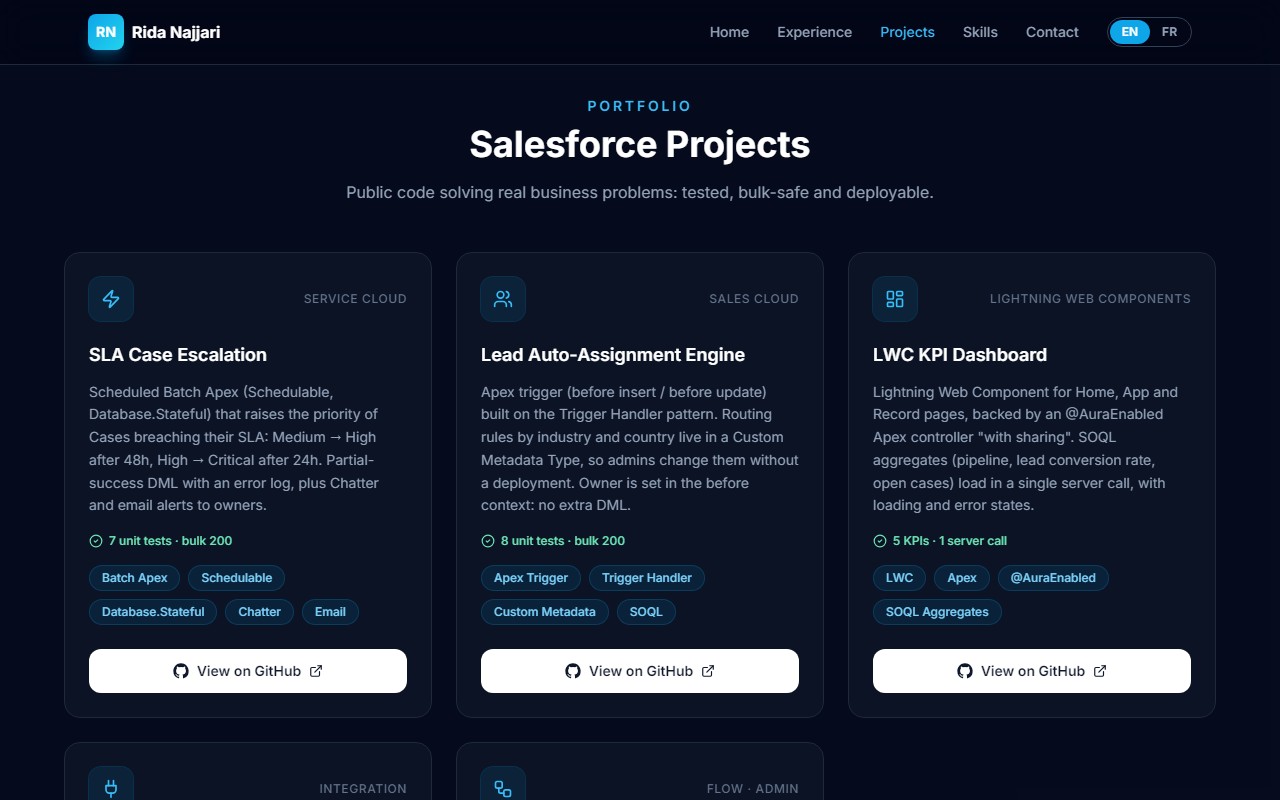
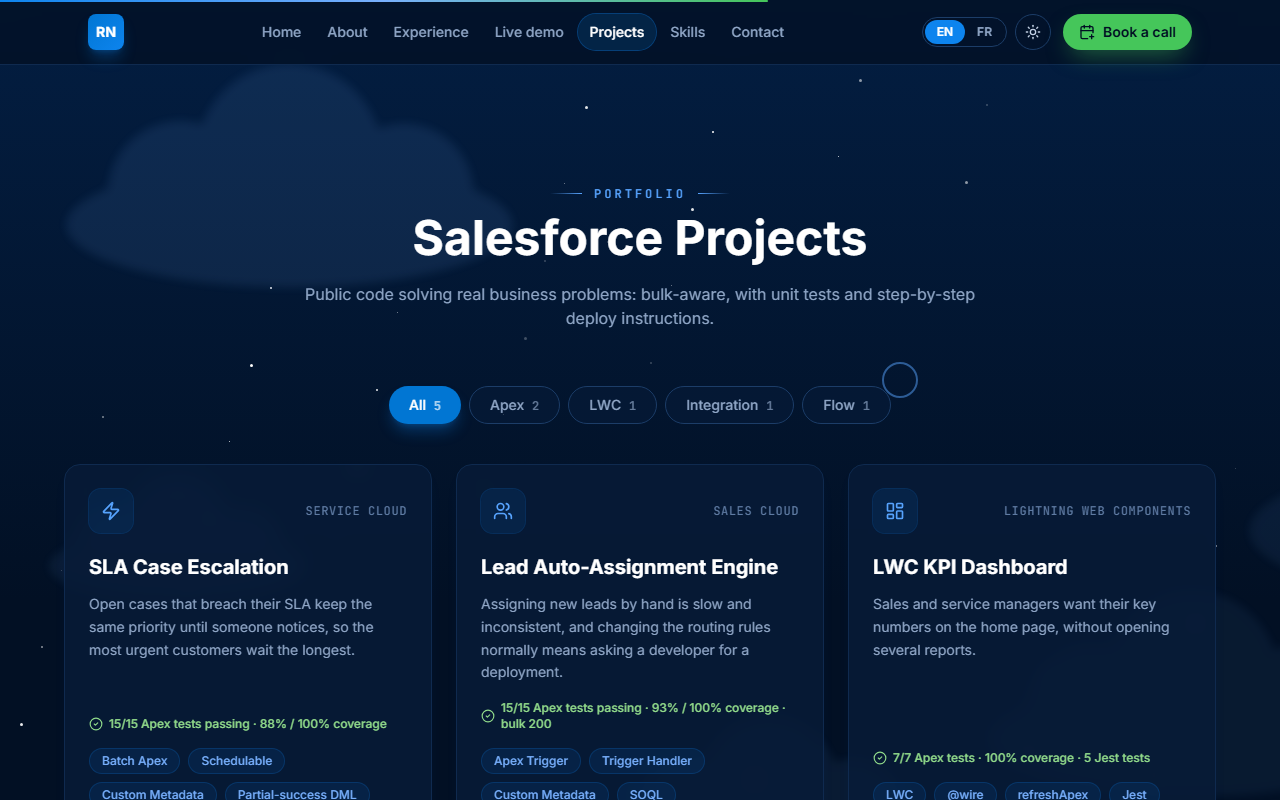
Update README and screenshots for the redesigned site

diff --git a/README.md b/README.md
@@ -10,11 +10,16 @@ This repo is the code of my personal website. I wanted one place where a recruit
 
 ## What's on the site
 
-- A short intro, my certifications and a button to download my CV
-- My experience (Vulcain Engineering Group, Dell Technologies, Sofrecom) and education (Institut F2i, EMSI)
-- My Salesforce projects, each with a link to its GitHub repo
-- My skills, grouped by area
-- A contact section with my email, LinkedIn and a small form
+- A short intro with a 3D cloud that follows the mouse, and a button to download my CV
+- A light and a dark theme. The site follows your device setting and remembers your choice if you switch
+- An About section with a few numbers and how I work
+- My experience (Vulcain Engineering Group, Dell Technologies, Sofrecom), shown as a timeline that scrolls sideways on desktop, and my education (Institut F2i, EMSI)
+- A live demo: two of my Apex projects replayed in the browser on a screen that looks like Salesforce Lightning, with the same rules as the Custom Metadata in the repos and sample data only
+- My Salesforce projects, with filters, a short case study for each one and a link to its GitHub repo
+- My 4 certifications and my skills, grouped by area
+- A "Book a call" window to propose a day and a time
+- A contact form that sends the message straight from the page, plus my email and LinkedIn
+- A command menu (Ctrl + K) to jump to any section
 
 The whole site works in English and French. I'm looking for a job in France, but I also wanted it readable for international teams, so there's an EN / FR switch in the menu.
 
@@ -36,11 +41,11 @@ Test results and coverage were measured in a Salesforce Developer Edition org at
 
 ## How I built it
 
-I kept it simple: React 18 with Vite, Tailwind CSS for styling and lucide-react for icons. There's no backend. The contact form just opens the visitor's email app with the message already filled in.
+React 18 with Vite, Tailwind CSS for styling, Framer Motion for the animations, three.js for the 3D cloud and lucide-react for icons. There's no backend of my own: the contact form is handled by Netlify Forms, which emails me each message.
 
-The content lives in plain data files: the texts in both languages in `src/i18n/`, and experience, projects and skills in `src/data/`. The sections themselves are in `src/components/`, so when something changes in my career I only edit the data files. `npm run lint` runs ESLint and `npm run format` runs Prettier. The CV you download from the site is `public/Rida_Najjari_CV_Salesforce.pdf`.
+The content lives in plain data files: the texts in both languages in `src/i18n/`, and experience, projects, case studies and skills in `src/data/`. The sections themselves are in `src/components/`, so when something changes in my career I only edit the data files. The colours of both themes are defined once in `src/index.css`. `npm run lint` runs ESLint and `npm run format` runs Prettier. The CV you download from the site is `public/Rida_Najjari_CV_Salesforce.pdf`.
 
-I checked the layout on phone and desktop sizes. On mobile it looks like this:
+Animations are switched off for visitors whose device asks for reduced motion. I checked the layout on phone and desktop sizes. On mobile it looks like this:
 
 <img src="docs/screenshot-mobile-fr.png" alt="Mobile version in French" width="280" />
 
@@ -51,7 +56,7 @@ npm install
 npm run dev
 ```
 
-Then open http://localhost:5173. `npm run build` creates the production version in `dist/`.
+Then open http://localhost:5173. `npm run build` creates the production version in `dist/`. The contact form only sends messages on the deployed site, because Netlify does the sending.
 
 I host the site on Netlify at [rida-najjari.netlify.app](https://rida-najjari.netlify.app/). The build settings are in `netlify.toml`, and every time I push to `main` the site updates on its own.
 
